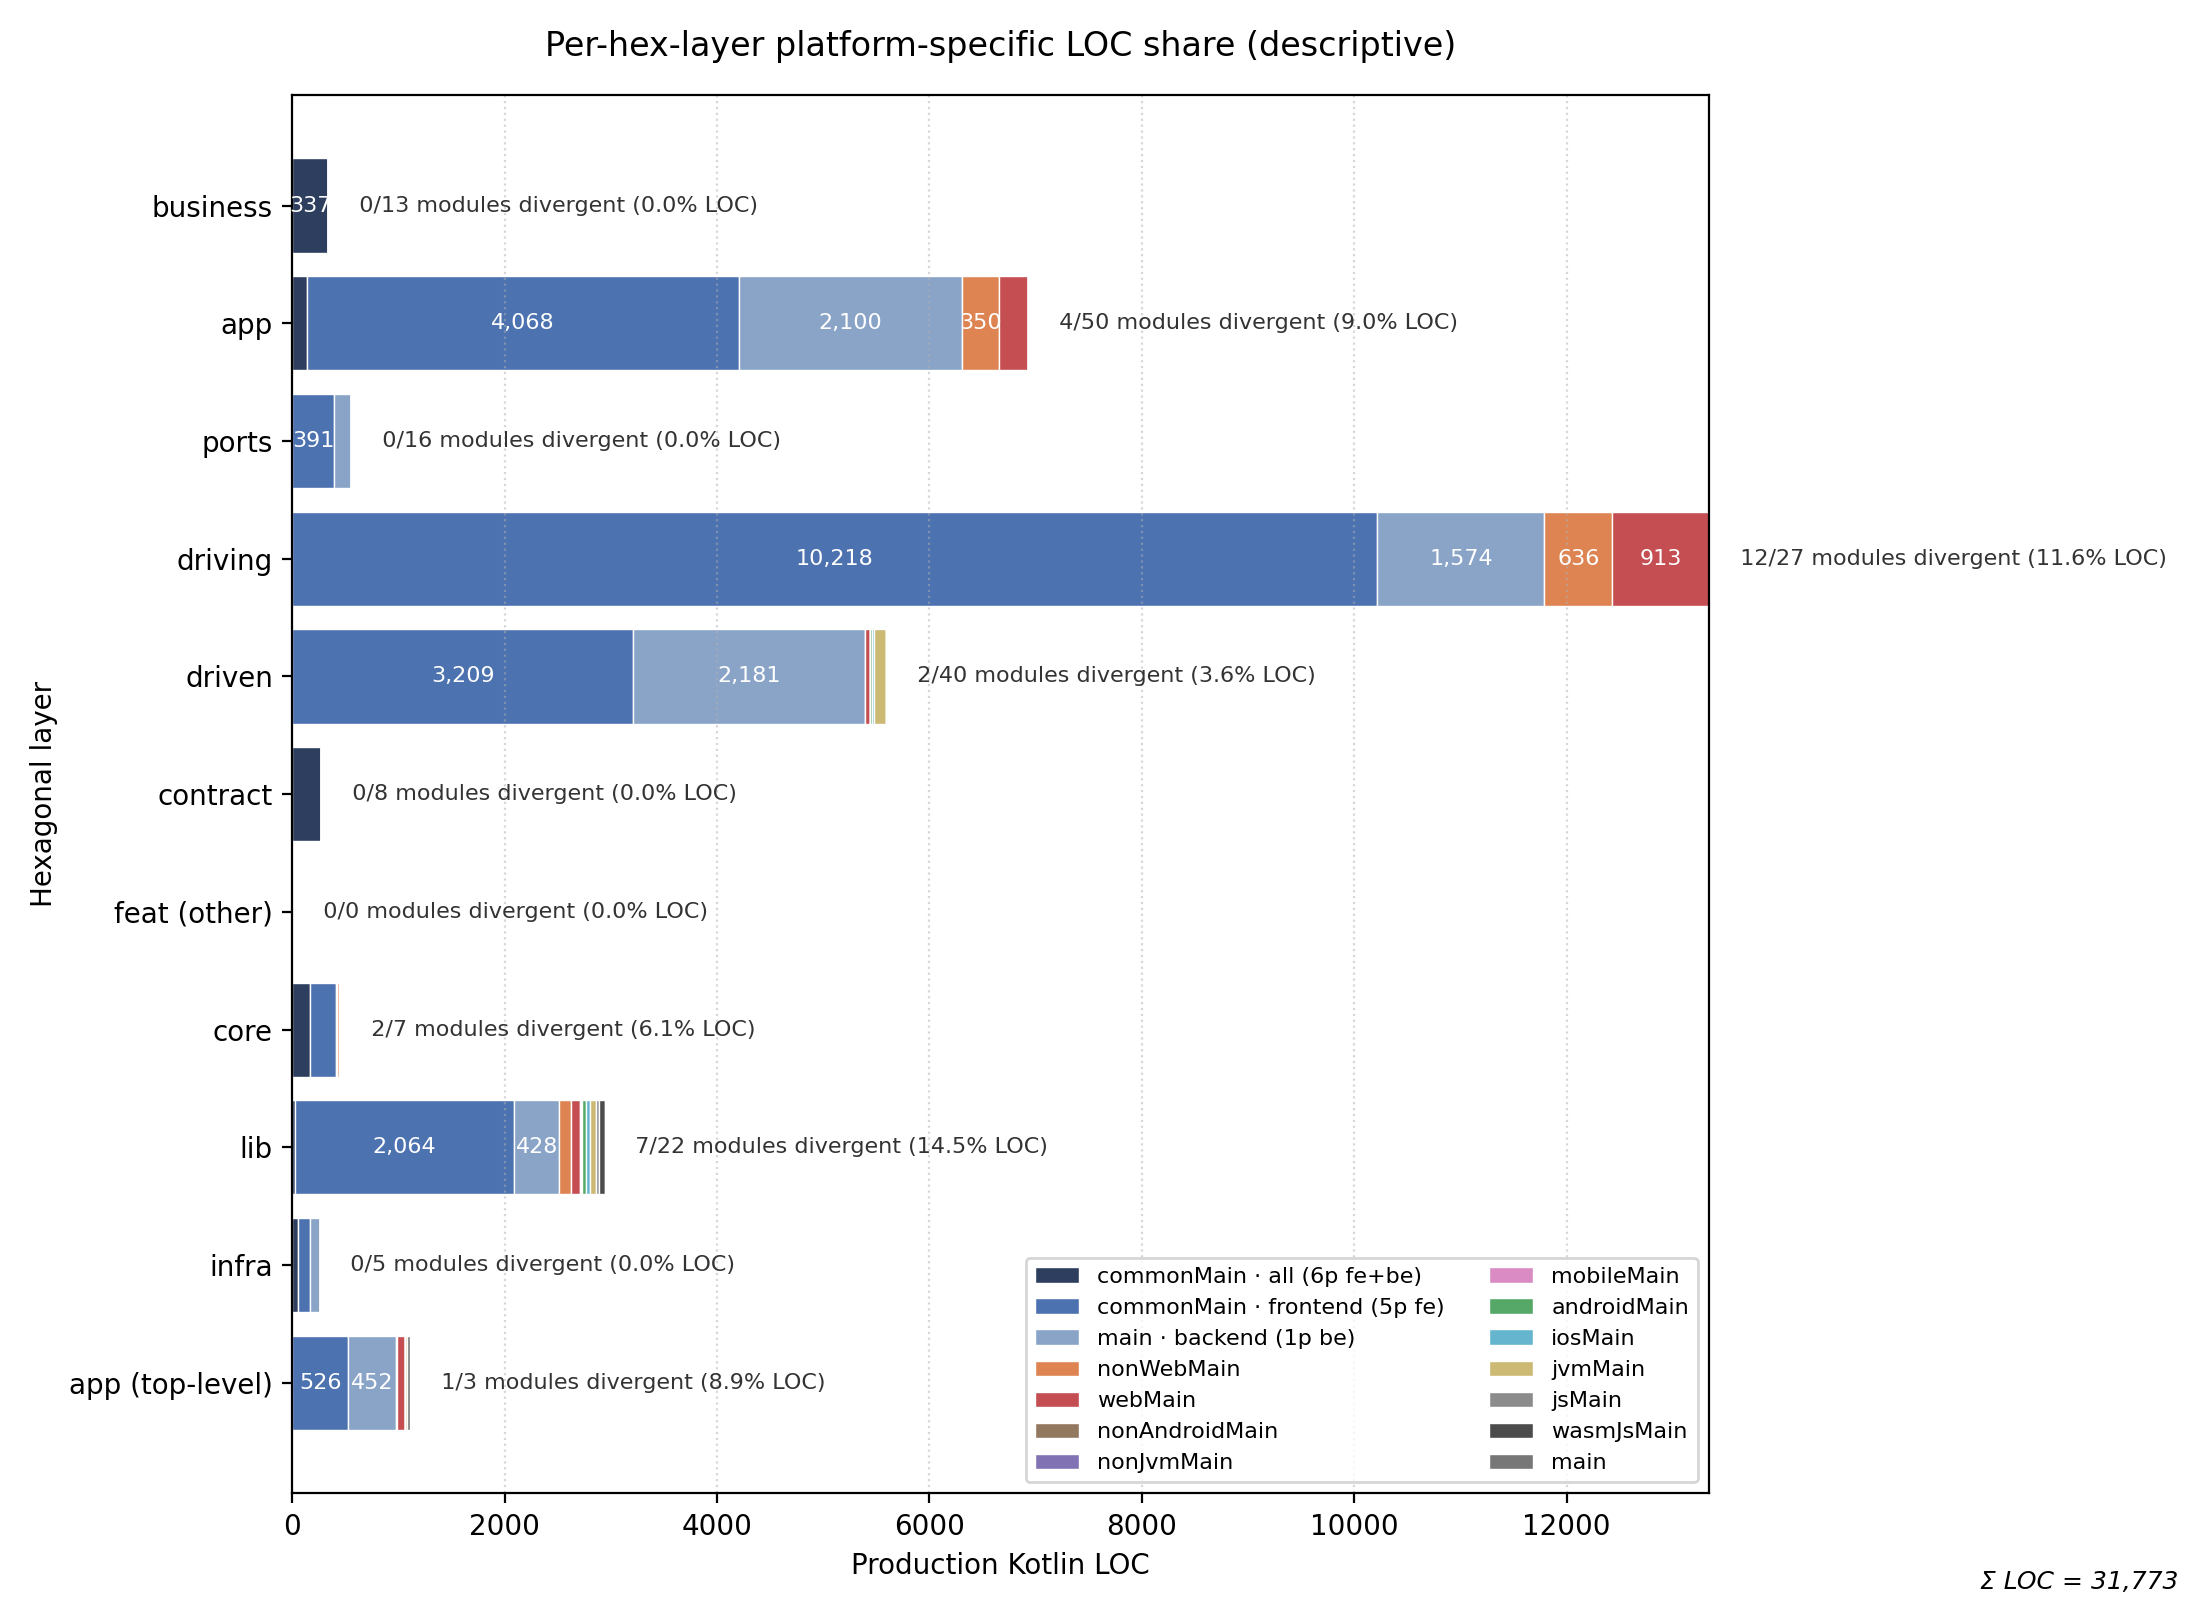
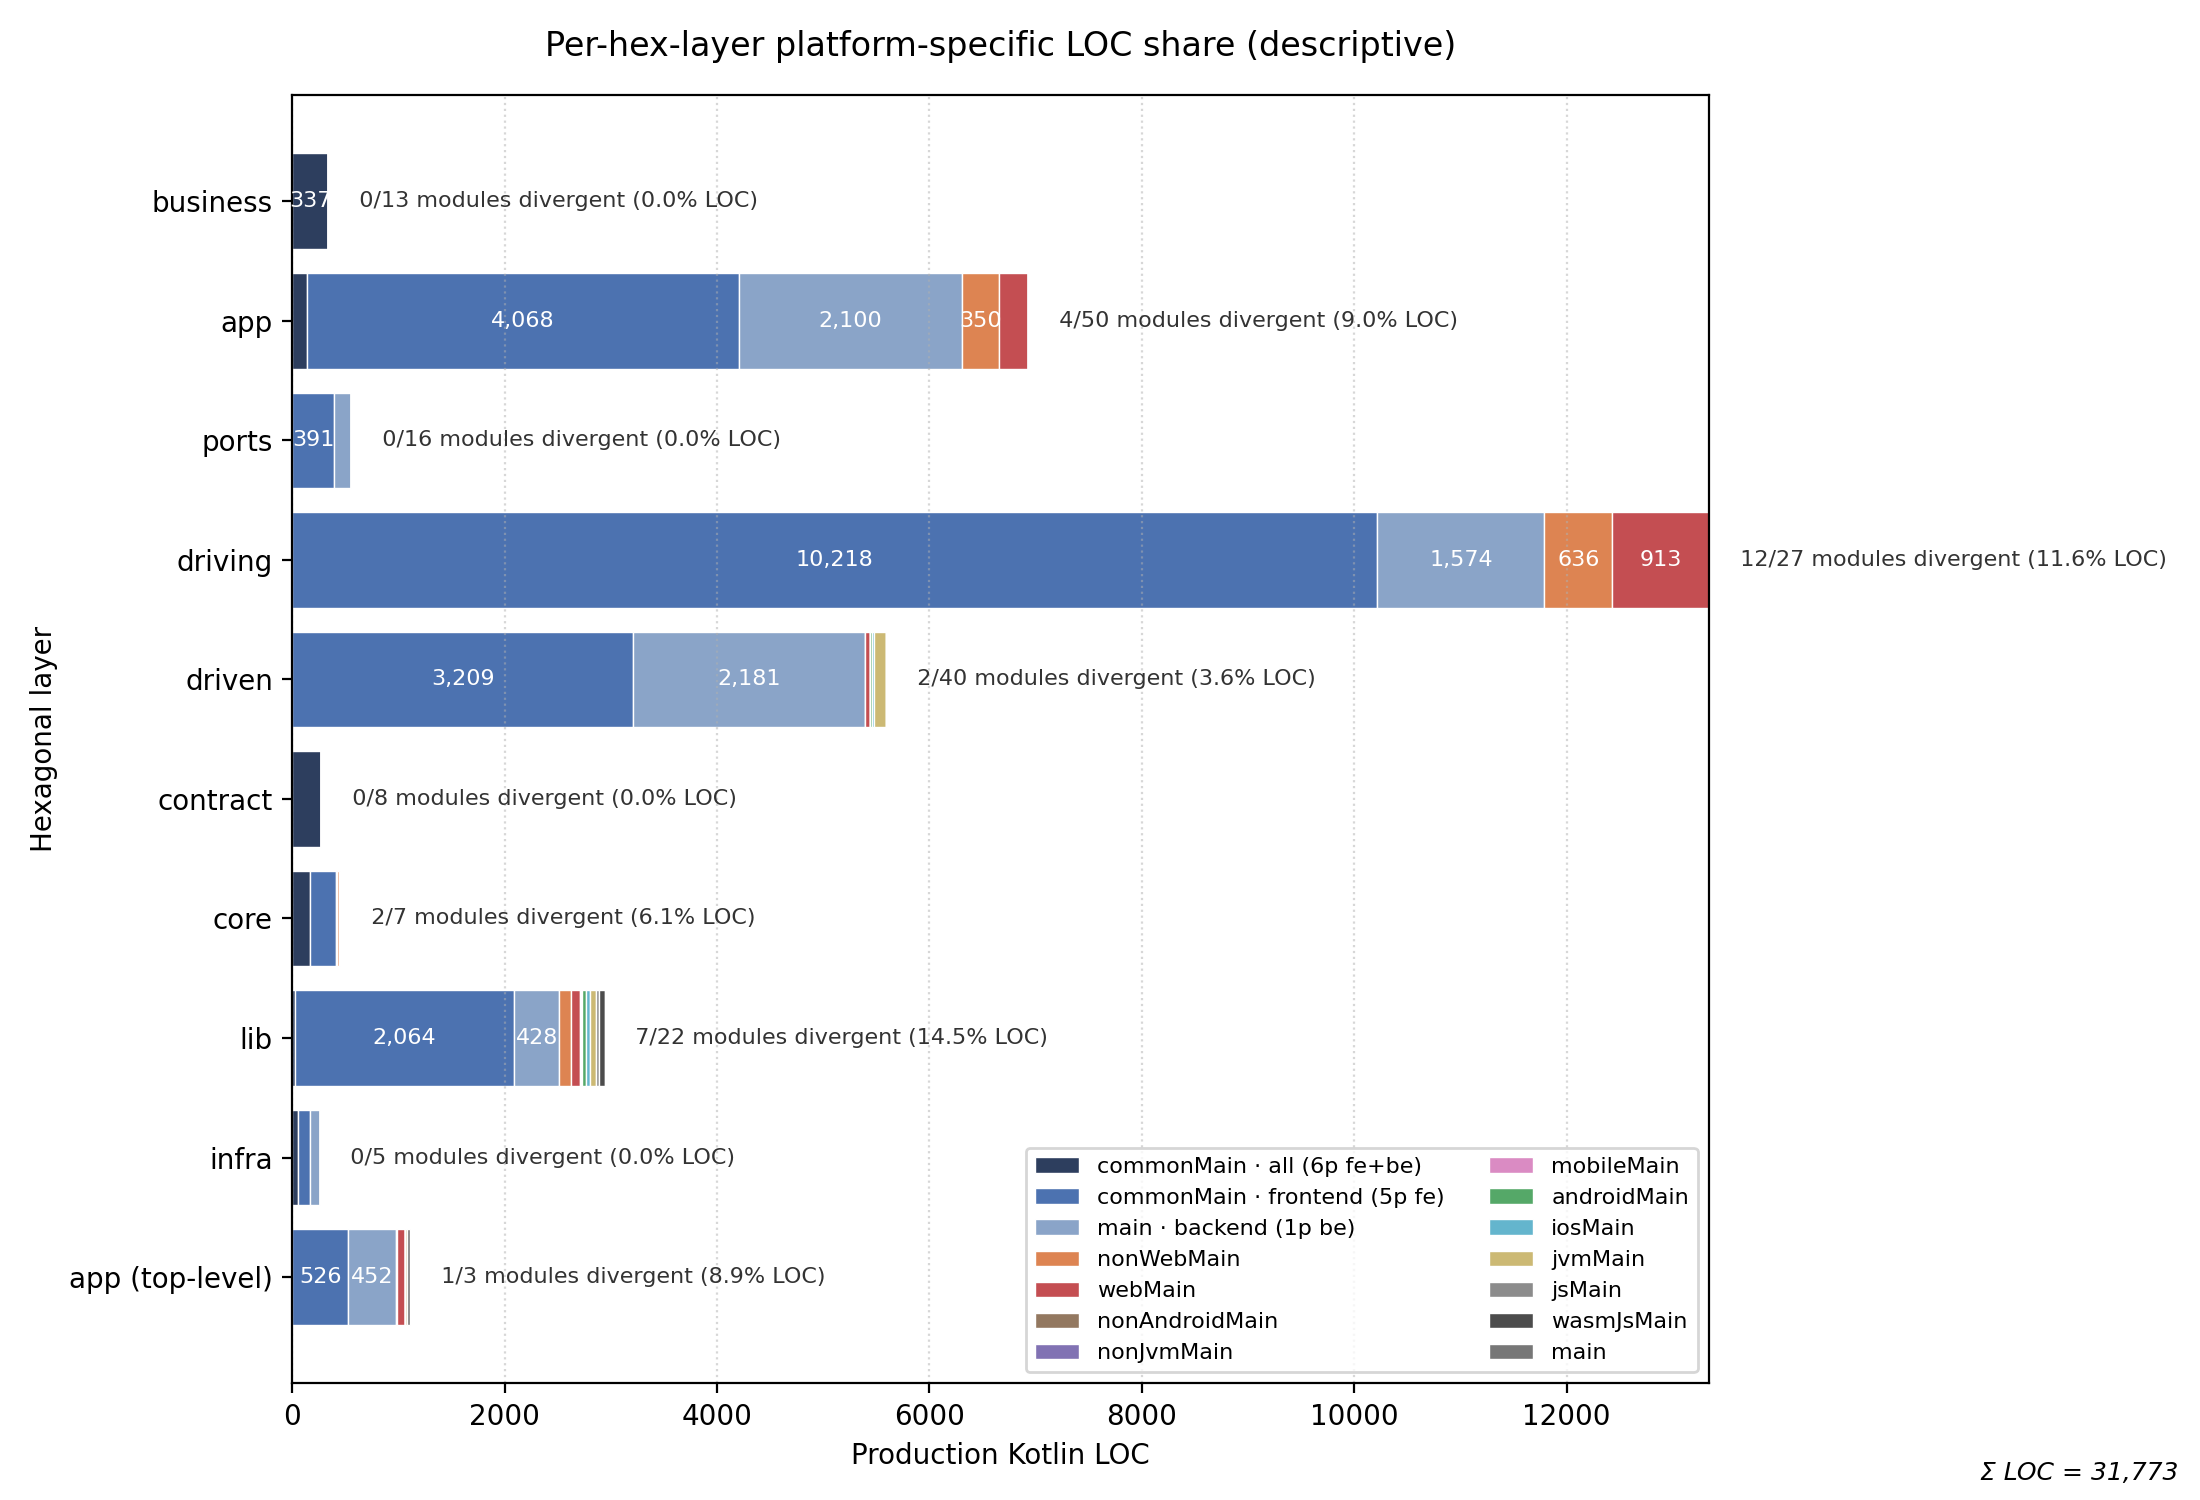
[J:MEP-0] PR #228 review: drop empty feat (other) row from layer-divergence
Match the heatmap's `rows = [l for l in LAYER_ORDER if l in matrix.index]`
parity trick: only emit layer rows that actually carry LOC. `feat (other)`
is 0 post-featShared and only materialises as a regression tripwire --
keep it in LAYER_ORDER so if a module drifts back into a non-hex shape it
reappears in both §4.2 figures simultaneously, but don't waste a
always-empty row of vertical space in the normal case.

diff --git a/analysis/figures.py b/analysis/figures.py
@@ -364,7 +364,11 @@ def compute_layer_divergence(df: pd.DataFrame) -> pd.DataFrame:
     prod["is_platform_specific"] = ~prod["source_set"].isin(NEUTRAL_SOURCE_SETS)
     prod["platform_specific_loc"] = prod["kotlin_loc"].where(prod["is_platform_specific"], 0)
 
-    layer_rows = list(LAYER_ORDER)
+    # Keep heatmap parity: only emit rows that carry LOC. `feat (other)` is a
+    # regression tripwire in LAYER_ORDER -- if featShared ever drifts back into
+    # a non-hex shape the row materialises here and in the heatmap together.
+    present_layers = set(prod["layer"].unique())
+    layer_rows = [layer for layer in LAYER_ORDER if layer in present_layers]
 
     records: list[dict] = []
     for layer in layer_rows:
